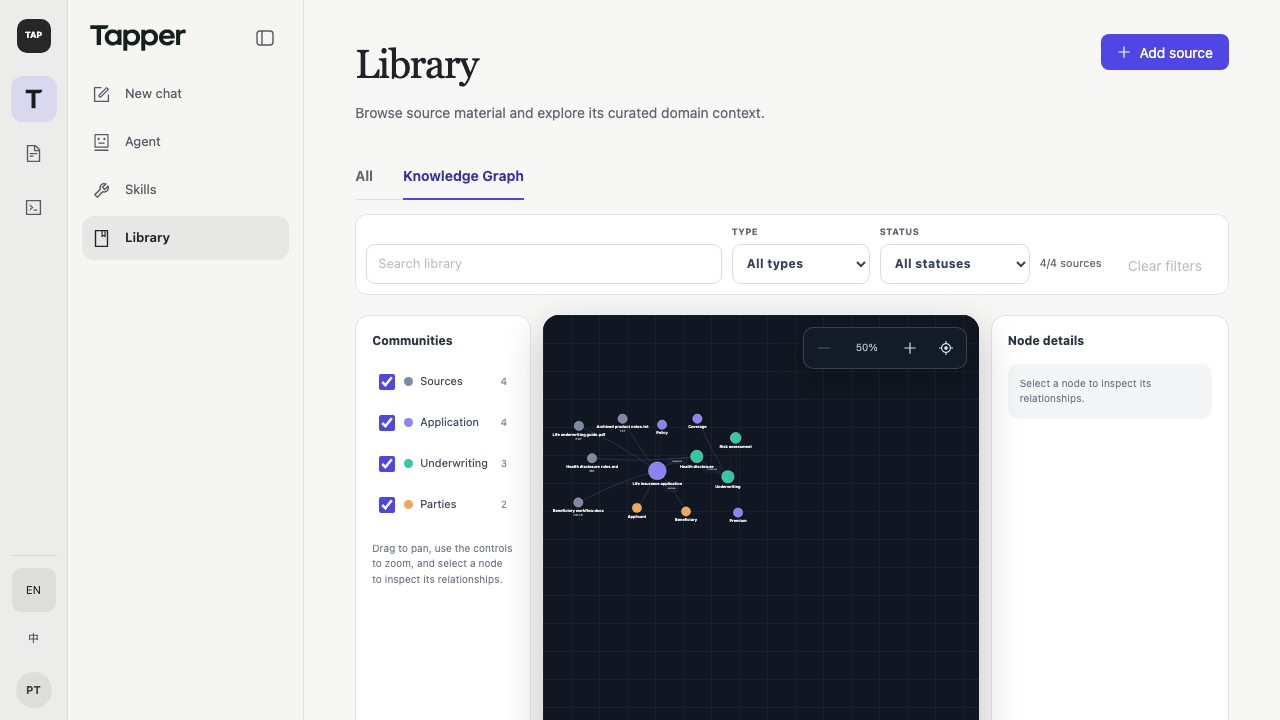
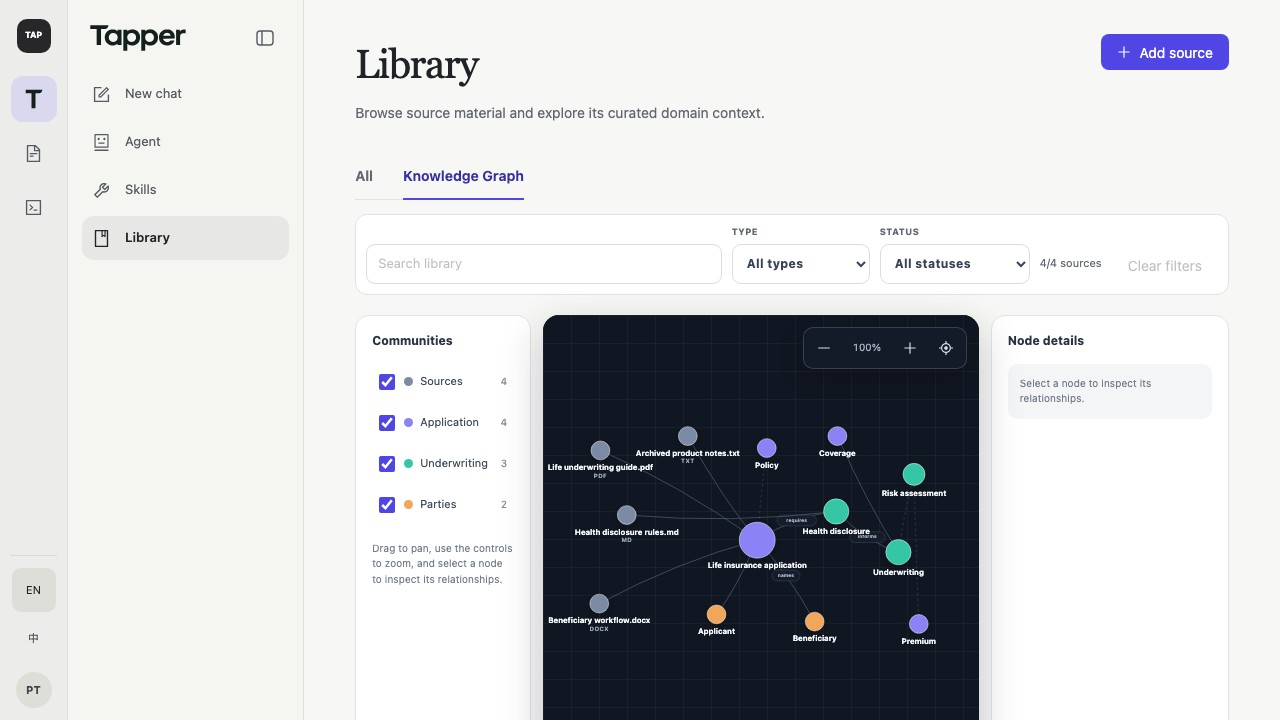
fix: restore readable graph evidence

diff --git a/apps/web/tests/e2e/prototype-demo-capture.spec.ts b/apps/web/tests/e2e/prototype-demo-capture.spec.ts
@@ -7,6 +7,7 @@ import { expect, test, type Page, type Route } from "@playwright/test";
 import type { components } from "../../src/shared/api/generated/schema";
 
 const OUTPUT_DIR = resolve(process.cwd(), "../../docs/assets/prototype-demo");
+const MIN_GRAPH_CAPTURE_LABEL_HEIGHT = 12;
 
 const OUTPUTS = [
   "01-tapper-new-chat.jpg",
@@ -639,10 +640,8 @@ test("14 through 18 capture Library list and graph states", async ({
     name: "Life insurance knowledge graph",
   });
   await expect(graph).toBeVisible();
-  await page.getByRole("button", { name: "Zoom out" }).click();
-  await page.getByRole("button", { name: "Zoom out" }).click();
   await expect(page.getByRole("status", { name: "Zoom level" })).toHaveText(
-    "50%",
+    "100%",
   );
   await expect(
     page.getByRole("region", { name: "Node details" }),
@@ -650,6 +649,10 @@ test("14 through 18 capture Library list and graph states", async ({
   const graphBox = await graph.boundingBox();
   expect(graphBox).not.toBeNull();
   if (graphBox === null) throw new Error("Graph capture geometry is missing");
+  const viewport = page.viewportSize();
+  expect(viewport).not.toBeNull();
+  if (viewport === null)
+    throw new Error("Capture viewport geometry is missing");
   for (const label of [
     "Life underwriting guide.pdf",
     "Beneficiary workflow.docx",
@@ -660,14 +663,22 @@ test("14 through 18 capture Library list and graph states", async ({
     expect(labelBox).not.toBeNull();
     if (labelBox === null)
       throw new Error(`Graph label geometry is missing: ${label}`);
+    expect(
+      labelBox.height,
+      `${label} must remain legible in the customer screenshot`,
+    ).toBeGreaterThanOrEqual(MIN_GRAPH_CAPTURE_LABEL_HEIGHT);
     expect(labelBox.x).toBeGreaterThanOrEqual(graphBox.x);
     expect(labelBox.x + labelBox.width).toBeLessThanOrEqual(
       graphBox.x + graphBox.width,
     );
     expect(labelBox.y).toBeGreaterThanOrEqual(graphBox.y);
     expect(labelBox.y + labelBox.height).toBeLessThanOrEqual(
-      Math.min(graphBox.y + graphBox.height, page.viewportSize()?.height ?? 0),
+      graphBox.y + graphBox.height,
     );
+    expect(labelBox.x).toBeGreaterThanOrEqual(0);
+    expect(labelBox.x + labelBox.width).toBeLessThanOrEqual(viewport.width);
+    expect(labelBox.y).toBeGreaterThanOrEqual(0);
+    expect(labelBox.y + labelBox.height).toBeLessThanOrEqual(viewport.height);
   }
   await capture(page, "17-tapper-knowledge-graph.jpg");
 

diff --git a/apps/web/src/widgets/tap/TapProductPrototype.interactions.test.tsx b/apps/web/src/widgets/tap/TapProductPrototype.interactions.test.tsx
@@ -2274,7 +2274,7 @@ describe("Tap product prototype interactions", () => {
     await user.click(zoomOut);
     expect(
       screen.getByRole("status", { name: "Zoom level" }),
-    ).toHaveTextContent("50%");
+    ).toHaveTextContent("75%");
     expect(zoomOut).toBeDisabled();
   });
 

diff --git a/apps/web/src/widgets/tap/prototype/KnowledgeGraph.tsx b/apps/web/src/widgets/tap/prototype/KnowledgeGraph.tsx
@@ -40,7 +40,7 @@ interface GraphData {
 const GRAPH_WIDTH = 680;
 const GRAPH_HEIGHT = 460;
 const GRAPH_HORIZONTAL_MARGIN = 24;
-const MIN_ZOOM = 0.5;
+const MIN_ZOOM = 0.75;
 const MAX_ZOOM = 1.75;
 const ZOOM_STEP = 0.25;
 
